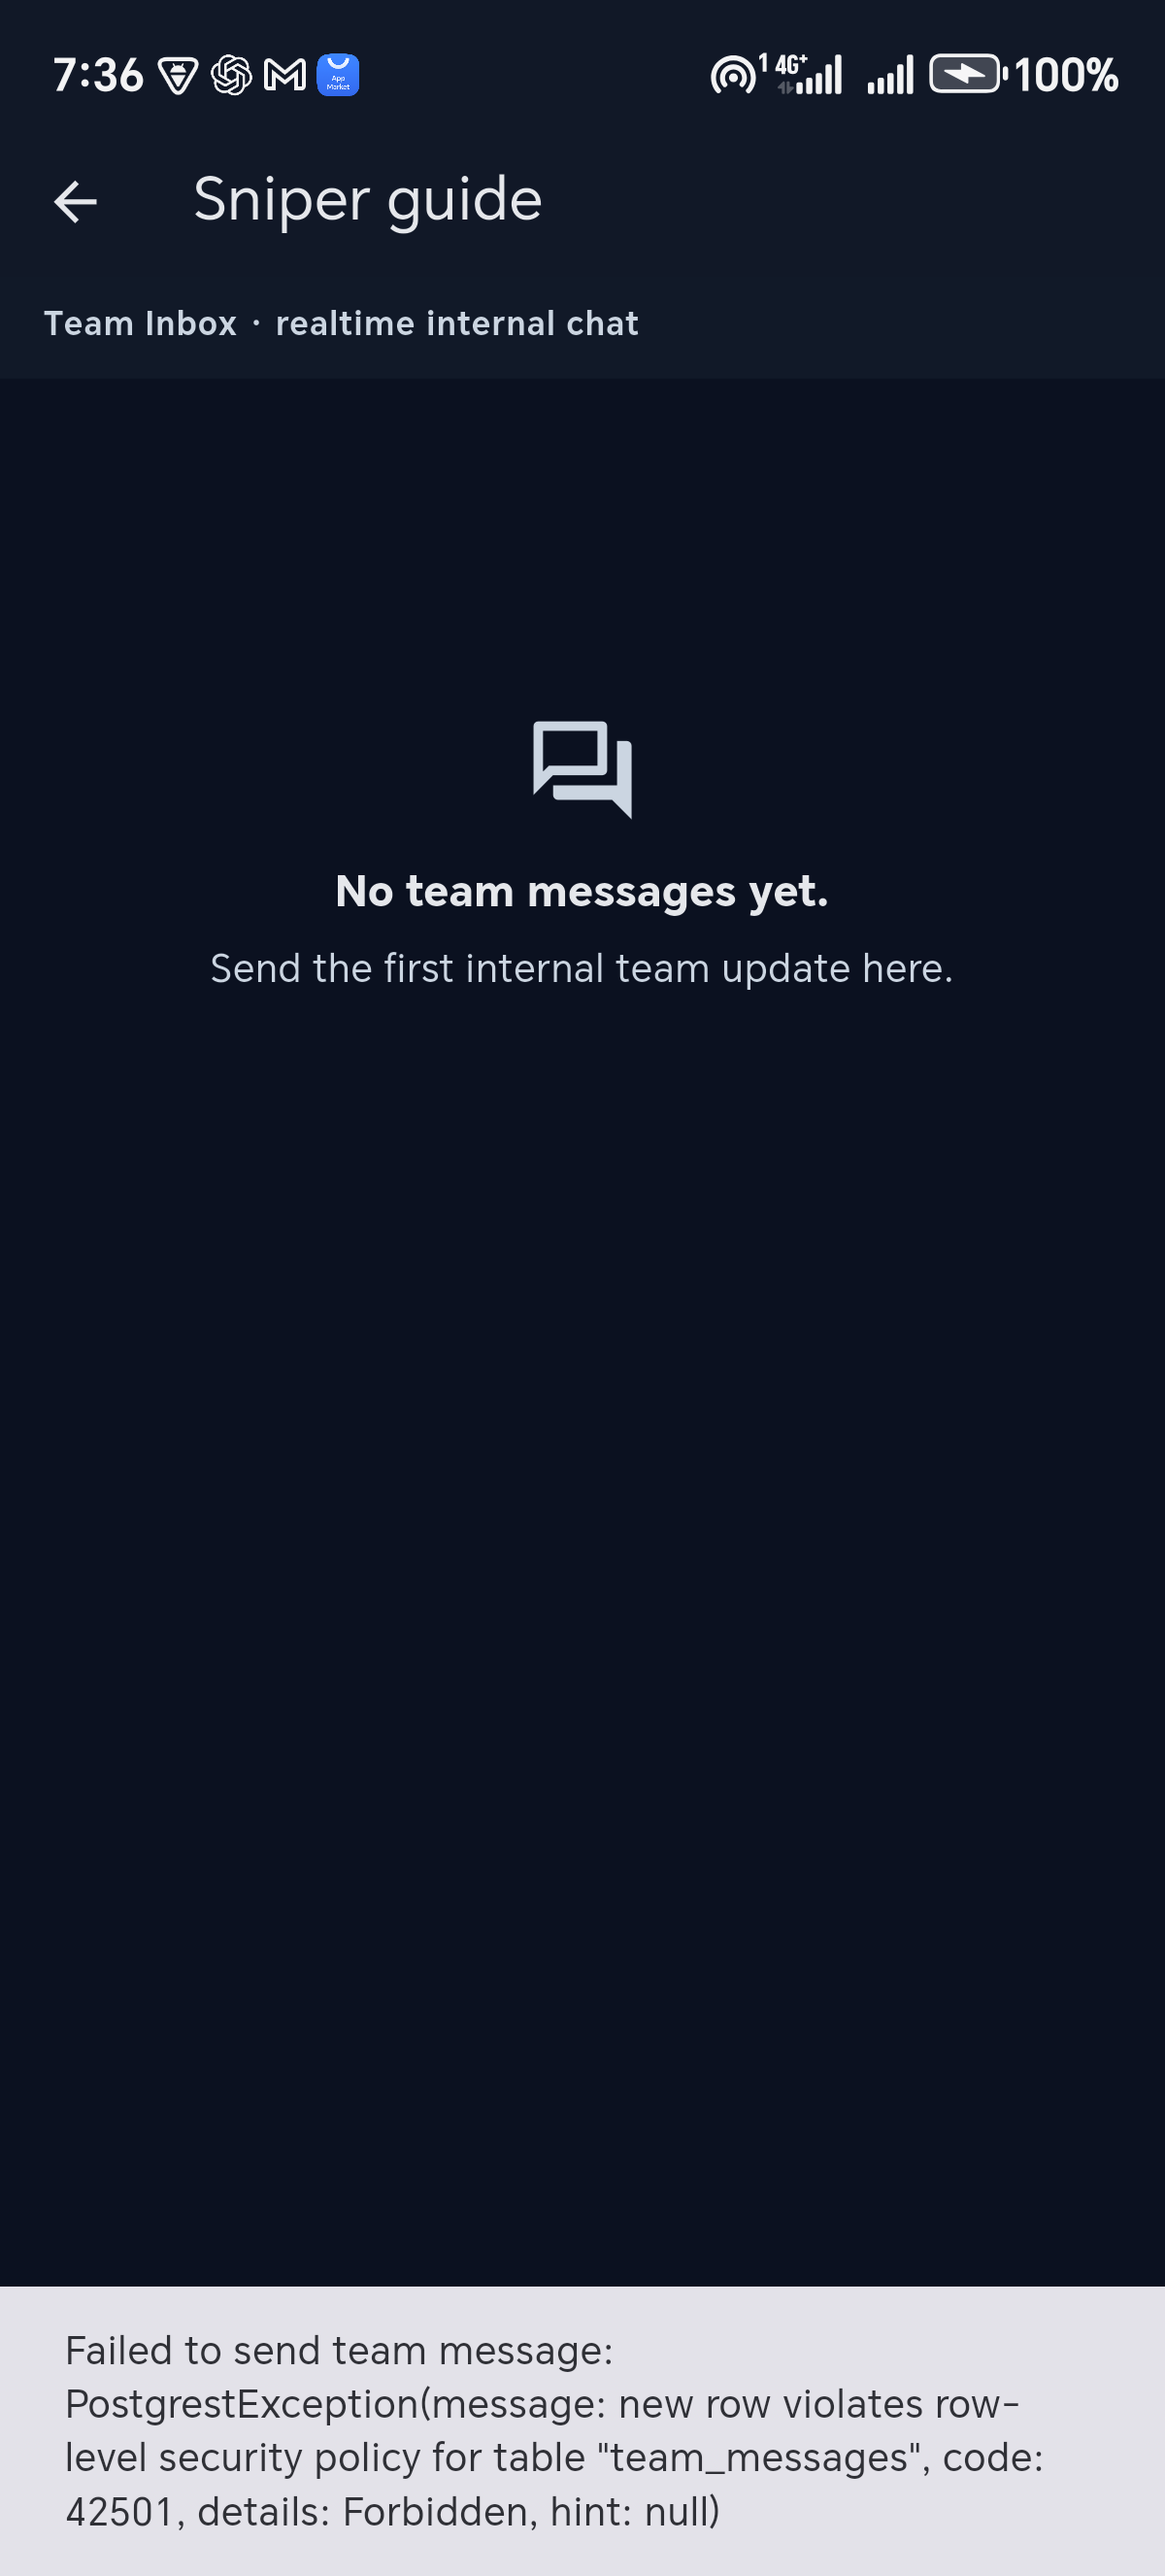
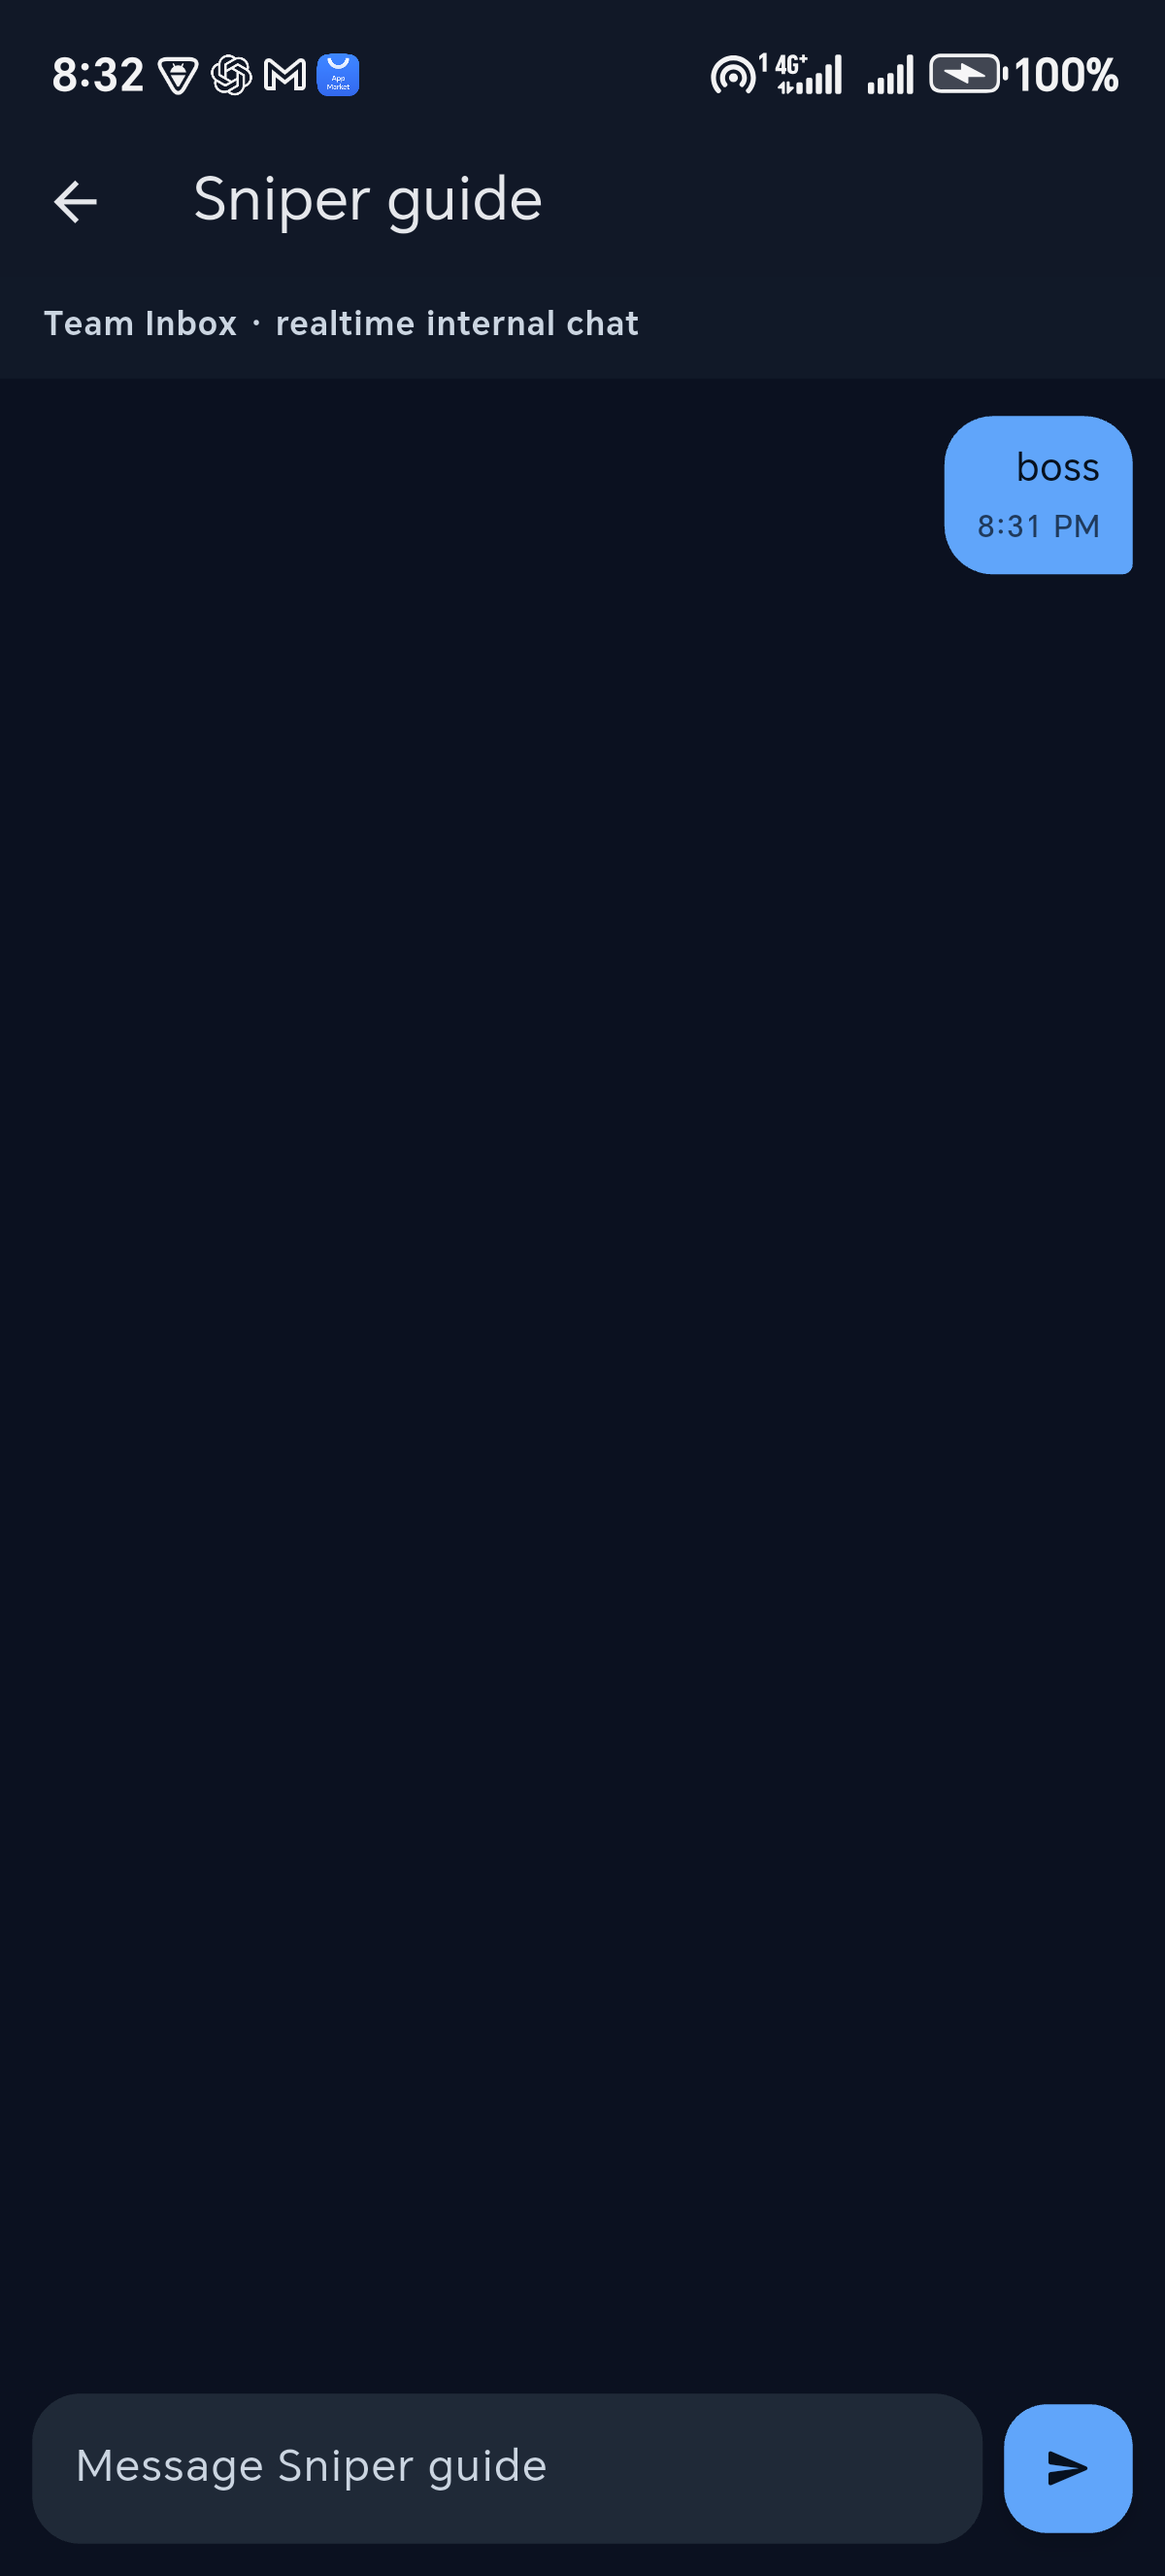
teams linked correctly

diff --git a/lib/features/agent/presentation/screens/agent_dashboard_screen.dart b/lib/features/agent/presentation/screens/agent_dashboard_screen.dart
@@ -984,7 +984,6 @@ class _TeamInboxPageState extends State<TeamInboxPage> {
   bool _isLoading = true;
   String? _error;
 
-  String get _currentUserId => _client.auth.currentUser?.id ?? '';
 
   @override
   void initState() {
@@ -1017,28 +1016,17 @@ class _TeamInboxPageState extends State<TeamInboxPage> {
   }
 
   Future<List<TeamChatTeam>> _fetchMyTeams() async {
-    if (_currentUserId.isEmpty) return const <TeamChatTeam>[];
+    final List<dynamic> rows = await _client
+        .from('agent_teams')
+        .select('id, name, specialization, logo_url')
+        .order('name');
 
-    final List<dynamic> memberRows = await _client
-        .from('team_members')
-        .select('team:team_id(id, name, specialization, logo_url)')
-        .eq('user_id', _currentUserId);
-
-    return memberRows
-        .map((row) {
-          final Map<String, dynamic> item = Map<String, dynamic>.from(
-            row as Map,
-          );
-
-          final Object? team = item['team'];
-          if (team is! Map) return null;
-
-          return TeamChatTeam.fromMap(Map<String, dynamic>.from(team));
-        })
-        .whereType<TeamChatTeam>()
+    return rows
+        .map(
+          (row) => TeamChatTeam.fromMap(Map<String, dynamic>.from(row as Map)),
+        )
         .where((team) => team.id.isNotEmpty)
-        .toList()
-      ..sort((a, b) => a.name.compareTo(b.name));
+        .toList();
   }
 
   Future<void> _openTeamChat(TeamChatTeam team) async {

diff --git a/macos/Flutter/GeneratedPluginRegistrant.swift b/macos/Flutter/GeneratedPluginRegistrant.swift
@@ -6,6 +6,7 @@ import FlutterMacOS
 import Foundation
 
 import app_links
+import file_picker
 import file_selector_macos
 import firebase_core
 import firebase_messaging
@@ -19,6 +20,7 @@ import url_launcher_macos
 
 func RegisterGeneratedPlugins(registry: FlutterPluginRegistry) {
   AppLinksMacosPlugin.register(with: registry.registrar(forPlugin: "AppLinksMacosPlugin"))
+  FilePickerPlugin.register(with: registry.registrar(forPlugin: "FilePickerPlugin"))
   FileSelectorPlugin.register(with: registry.registrar(forPlugin: "FileSelectorPlugin"))
   FLTFirebaseCorePlugin.register(with: registry.registrar(forPlugin: "FLTFirebaseCorePlugin"))
   FLTFirebaseMessagingPlugin.register(with: registry.registrar(forPlugin: "FLTFirebaseMessagingPlugin"))
